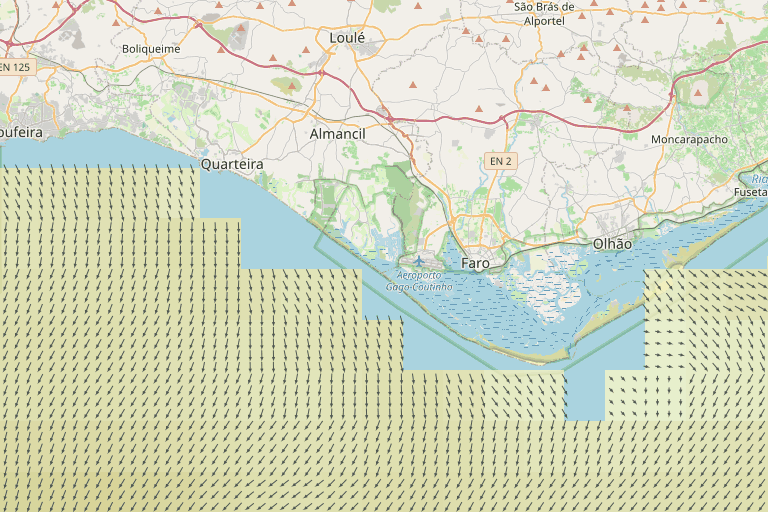
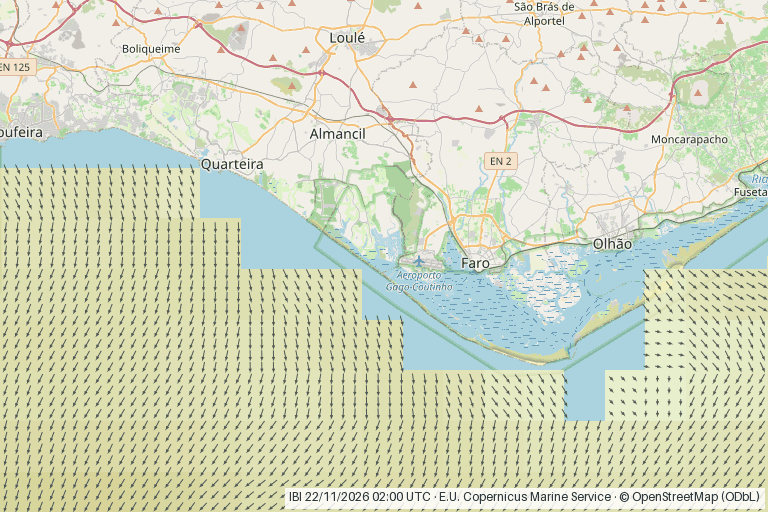
Estudo da dinâmica do mar: rigor documental (revisão)
Só documentação; as conclusões e a recomendação não mudam.

- Nova §1.1: corrente ao largo (o que os produtos dão) e corrente junto à praia
  (nenhum produto a dá; não se deduz da do largo).
- ODYSSEA: o valor é do píxel de satélite mais próximo (~2 km), estimativa e não
  medição no pesqueiro (resumo, quadro de cobertura e recomendação).
- Comparações com a boia identificadas como amostra, não validação.
- Créditos das imagens completos: conjunto, variável e hora de cada camada do
  Copernicus Marine, DOI do IBI marcado «por confirmar», OpenStreetMap com ODbL e
  endereço; crédito gravado no canto de cada imagem.
- Referência cruzada corrigida (Open-Meteo: §2.4 e §4.2).

Claude-Session: https://claude.ai/code/session_01TX55gW1oAcfLVDXZBJi7ym

Changed region(s): [[0.3438, 0.9375, 1.0, 1.0]]

diff --git a/docs/estudo-dinamica-mar.md b/docs/estudo-dinamica-mar.md
@@ -14,9 +14,20 @@ Convenções deste documento:
 - **Nenhuma fonte de correntes ou de temperatura chega aos pesqueiros.** Em todos os modelos, os pontos de pesca caem em células de terra; a primeira célula de mar fica a **2,3–8,2 km** (Open-Meteo), **2,4–7,0 km** (IBI, Copernicus) ou **3,8–7,0 km** (HYCOM, IH), com **24–37 m de fundo** no modelo IBI. A zona de rebentação, as correntes junto à praia e a **Ria Formosa** não estão representadas em nenhuma.
 - **Correntes**: o melhor candidato é o **IBI físico do Copernicus** (1/36°, ~3 km, horário e de 15 em 15 min, com maré, 10 dias de previsão, mosaicos de mapa com setas desenhadas no servidor, CORS aberto, sem conta). Ao largo de Quarteira dá correntes de **0,02–0,15 m/s** dominadas pela maré. Serve como **contexto do largo**, não como valor do pesqueiro.
 - **Correntes observadas**: a rede de radares HF **HFR-South** (IH e Puertos del Estado) existe e publica vectores horários, mas o radar de **VRSA está inoperacional** (lista do próprio IH) e a cobertura real entre Faro e Quarteira **não foi possível verificar** daqui. **Testar mais.**
-- **Temperatura da superfície**: a análise de satélite **ODYSSEA L4 (0,02°, diária)** tem valores a **0,4–2,6 km** dos pontos e um erro estimado de **±0,55–0,59 K**. É observação (satélite, com interpolação), não previsão, e chega com **um dia de atraso**. Boa candidata a **camada de mapa**.
-- **Open-Meteo** (o que a app já usa para as ondas): também tem correntes e temperatura (indício forte de que vêm do SMOC/modelo global de 1/12°, ver §2.6), mas numa grelha de ~9 km em que **cinco pesqueiros partilham a mesma célula**. Não acrescenta resolução.
+- **Temperatura da superfície**: a análise de satélite **ODYSSEA L4 (0,02°, diária)** tem um píxel com valor a **0,4–2,6 km** dos pontos, com um erro estimado de **±0,55–0,59 K**. É uma **estimativa de satélite para um quadrado de ~2 km** (interpolada quando há nuvens), não previsão e **não é medição no pesqueiro**; chega com **um dia de atraso**. Boa candidata a **camada de mapa**.
+- **Open-Meteo** (o que a app já usa para as ondas): também tem correntes e temperatura (indício forte de que vêm do SMOC/modelo global de 1/12°, ver §2.4 e §4.2), mas numa grelha de ~9 km em que **cinco pesqueiros partilham a mesma célula**. Não acrescenta resolução.
 - **Recomendação** (§8): **não integrar já.** Primeiro, um **ensaio curto** (comparar IBI, ODYSSEA e Open-Meteo com a boia de Faro durante alguns dias, como no ensaio da validação) e **verificar a cobertura dos radares HF**. Se o utilizador quiser avançar depois, a proposta é uma camada **«Dinâmica do Mar»** no mapa, **só informativa**, que não entra nas notas.
+
+### 1.1 Duas correntes diferentes
+
+| | **Corrente ao largo** | **Corrente junto à praia** |
+|---|---|---|
+| O que é | Circulação da plataforma e corrente de maré, a 2–10 km da costa | Corrente longilitoral, agueiros (correntes de retorno), refluxo da rebentação, corrente de maré nos bicos das barras |
+| O que a move | Maré, vento, circulação regional | Sobretudo a rebentação das ondas e a forma do fundo, numa escala de dezenas a centenas de metros |
+| Quem a dá | Os produtos deste estudo (IBI, SMOC/Open-Meteo, HYCOM; os radares HF, se cobrirem a zona) | **Nenhum** dos produtos avaliados |
+| Uso possível na app | Contexto do largo, sempre identificado como tal | — |
+
+A corrente junto à praia **não se deduz** da corrente ao largo: podem ter sentidos e intensidades diferentes. Em todo o documento, «corrente» sem mais é a corrente **ao largo** que os produtos dão.
 
 ---
 
@@ -107,7 +118,7 @@ Na OGC API do IH (verificado):
 
 Distância do ponto de dados de cada pesqueiro (config) à primeira célula com valor, a 21–22/11/2026. «Partilhada» = a mesma célula serve outros pesqueiros. No IBI e no HYCOM, a procura foi feita **só para sul** (o mar fica a sul em toda esta costa), de 0,01° em 0,01° (IBI) e de 0,005° em 0,005° (HYCOM): as distâncias são **máximos**; outra direcção podia dar uma célula um pouco mais perto.
 
-| Pesqueiro (ponto) | Open-Meteo (correntes e temperatura) | IBI físico (correntes e temperatura) | HYCOM IH | ODYSSEA L4 (temperatura) |
+| Pesqueiro (ponto) | Open-Meteo (correntes e temperatura) | IBI físico (correntes e temperatura) | HYCOM IH | ODYSSEA L4 (temperatura; píxel mais próximo) |
 |---|---|---|---|---|
 | 1 Ria Formosa (água: `faroMar` 36,97 / −7,98) | 2,3 km, célula do mar de fora | 3,1 km, mar de fora | não testado | não testado |
 | 2 Praia de Faro (`faroMarPoente`) | 6,9 km (partilhada com 3) | 4,7 km | 5,5 km | 0,5 km |
@@ -117,6 +128,8 @@ Distância do ponto de dados de cada pesqueiro (config) à primeira célula com 
 | 6 Praia de Vilamoura | 3,4 km (partilhada) | 5,1 km (partilhada) | 6,2 km (partilhada) | 1,0 km |
 | 7 Molhe de Vilamoura | 3,1 km (partilhada) | 4,9 km (partilhada) | não testado | não testado |
 | 8 Falésia (`falesiaMar`) | 4,8 km (partilhada) | 2,4 km | 4,5 km | 1,0 km |
+
+As distâncias do ODYSSEA são do **píxel de satélite mais próximo** (~2 km de lado): um valor desse píxel é uma estimativa de satélite para essa área, não uma medição no pesqueiro.
 
 O que isto quer dizer:
 - **Resolução:**
@@ -141,7 +154,7 @@ O que isto quer dizer:
 
 ### 4.1 Correntes do IBI ao largo de Quarteira (22/11/2026, previsão de 21/11)
 
-Célula 37,027 / −8,110 (a mesma do molhe de Quarteira e de Vilamoura), média horária de superfície. «Para» = direcção para onde vai a água.
+Célula 37,027 / −8,110: a célula de mar mais próxima do molhe de Quarteira e dos dois pontos de Vilamoura, a 4,4–5,1 km deles (corrente **ao largo**, não junto à praia). Média horária de superfície. «Para» = direcção para onde vai a água.
 
 | Hora (UTC) | Velocidade (m/s) | Para | Temperatura (°C) |
 |---|---|---|---|
@@ -160,7 +173,7 @@ Célula 37,027 / −8,110 (a mesma do molhe de Quarteira e de Vilamoura), média
 
 Média diária **sem maré** (`uo_detided`/`vo_detided`, 22/11): 0,043 m/s para 171°. A corrente desta célula é fraca (até ~0,15 m/s ≈ 0,5 km/h) e roda com a maré.
 
-### 4.2 Open-Meteo e SMOC no mesmo sítio (célula da boia de Faro, 22/11/2026)
+### 4.2 Open-Meteo e SMOC no mesmo sítio (célula da boia de Faro, 22/11/2026; amostra de um dia)
 
 | Hora (UTC) | Open-Meteo km/h | Open-Meteo direcção | SMOC total km/h | SMOC total «para» | SMOC só euleriana km/h | Open-Meteo °C | Global 1/12° °C |
 |---|---|---|---|---|---|---|---|
@@ -175,7 +188,7 @@ Interpretação:
 
 É um indício de que ambos vêm do sistema global de 1/12°, **não** é prova. Junto a Quarteira a comparação não foi conclusiva: a célula do Copernicus devolvida não coincidiu com a do Open-Meteo.
 
-### 4.3 Temperatura da superfície junto à boia de Faro
+### 4.3 Temperatura da superfície junto à boia de Faro (amostra, não validação)
 
 A boia (IH, CC BY-NC 4.0) mede a ~6 km do Cabo de Santa Maria; os produtos usam a célula mais próxima.
 
@@ -201,7 +214,13 @@ Temperatura da superfície ODYSSEA L4 de 20/11/2026 (estilo `cmap:thermal`). A g
 
 ![Temperatura da superfície ODYSSEA ao largo de Faro e Quarteira](estudo-dinamica-mar/temperatura-odyssea-20261120.png)
 
-Créditos: Generated using E.U. Copernicus Marine Service Information (`IBI_ANALYSISFORECAST_PHY_005_001`; `SST_ATL_SST_L4_NRT_OBSERVATIONS_010_025`, DOI 10.48670/moi-00152 pela pesquisa). Fundo © colaboradores do OpenStreetMap. Seis mosaicos de cada, só para este documento.
+Créditos:
+- Generated using E.U. Copernicus Marine Service Information:
+  - `IBI_ANALYSISFORECAST_PHY_005_001`, conjunto `cmems_mod_ibi_phy_anfc_0.027deg-2D_PT1H-m_202411`, variável `sea_water_velocity`, média horária das 02:00 UTC de 22/11/2026 (previsão disponível a 21/11). DOI do produto: **por confirmar** (a página do produto está bloqueada neste ambiente; a pesquisa só encontrou o DOI da reanálise, que é outro produto).
+  - `SST_ATL_SST_L4_NRT_OBSERVATIONS_010_025`, conjunto `IFREMER-ATL-SST-L4-NRT-OBS_FULL_TIME_SERIE_201904`, variável `analysed_sst`, dia 20/11/2026. DOI 10.48670/moi-00152 (pela pesquisa).
+- Fundo: © OpenStreetMap; dados sob a licença ODbL, https://www.openstreetmap.org/copyright.
+- Composição: seis mosaicos de cada fonte (nível 11, EPSG:3857), com as camadas do Copernicus sobrepostas com transparência (75 % e 70 %) e o crédito gravado no canto de cada imagem. Feita só para este documento.
+- As cores são as do serviço, sem legenda: as imagens mostram formas e cobertura, **não servem para ler valores**.
 
 ---
 
@@ -284,8 +303,8 @@ Estes padrões são **regionais**. Uma camada de temperatura pode mostrar «águ
 
 | Fonte | Recomendação | Porquê |
 |---|---|---|
-| IBI físico (correntes, temperatura do modelo) | **Testar mais** → candidata a camada de mapa | Melhor resolução (~3 km), maré incluída, mosaicos com setas, sem conta. Mas a primeira célula fica a 2–7 km da praia e a temperatura deu +1,4 °C face à boia na única comparação feita. |
-| ODYSSEA L4 (temperatura, satélite) | **Testar mais** → candidata a camada de mapa | Observação de satélite a 0,02°, erro estimado ±0,55 K, junto à costa. Chega com um dia de atraso e é interpolada com nuvens. |
+| IBI físico (correntes, temperatura do modelo) | **Testar mais** → candidata a camada de mapa | Melhor resolução (~3 km), maré incluída, mosaicos com setas, sem conta. Mas a primeira célula fica a 2–7 km da praia e a temperatura deu +1,4 °C face à boia na única comparação feita (uma amostra, não validação). |
+| ODYSSEA L4 (temperatura, satélite) | **Testar mais** → candidata a camada de mapa | Estimativa de satélite (análise L4) a 0,02°, erro estimado ±0,55 K, com píxeis junto à costa. Não é medição no pesqueiro; chega com um dia de atraso e é interpolada com nuvens. |
 | Radares HF (HFR-South) | **Testar mais** (prioritário) | Única **observação** de correntes. É preciso confirmar se há vectores entre Faro e Quarteira com VRSA inoperacional (ERDDAP bloqueado aqui). |
 | Open-Meteo (correntes e temperatura) | **Rejeitar** para valores por pesqueiro | Grelha de ~9 km, cinco pesqueiros numa célula, direcção por confirmar e um troço de 10 h (12:00–22:00 UTC) com 90° fixos. Não acrescenta nada ao IBI. |
 | SMOC / GLOBAL 1/12° | **Rejeitar** (o IBI é mais fino na mesma região) | — |
